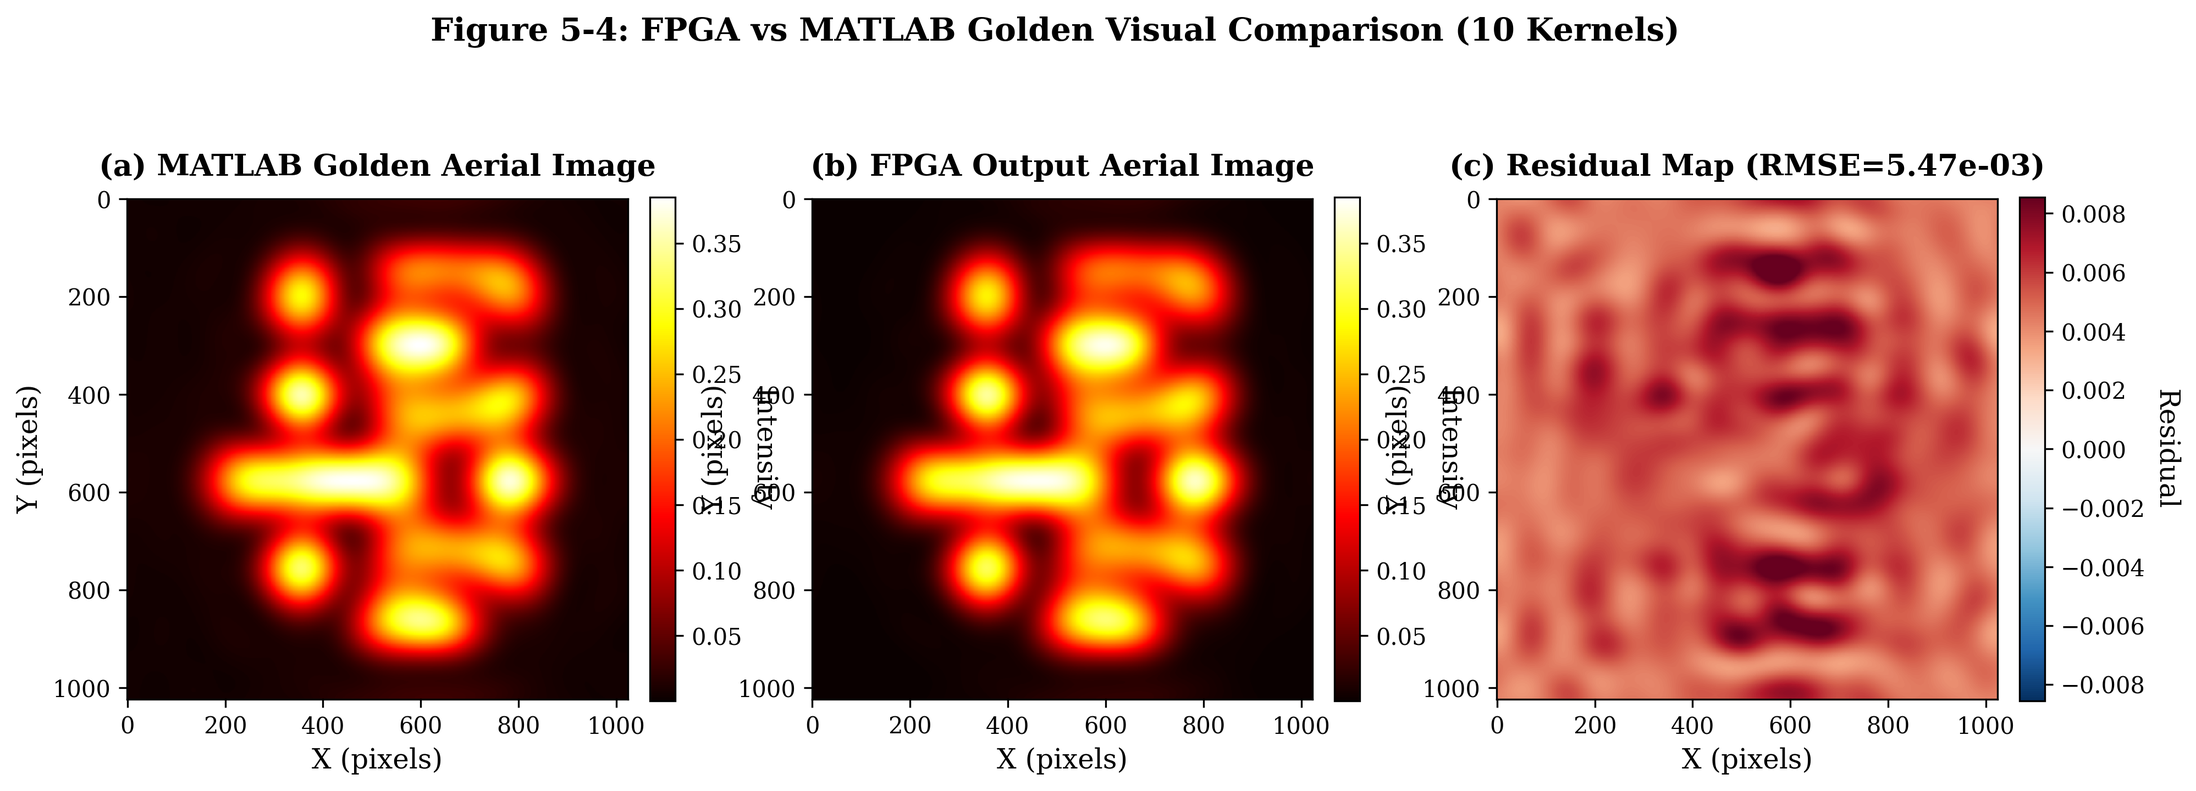
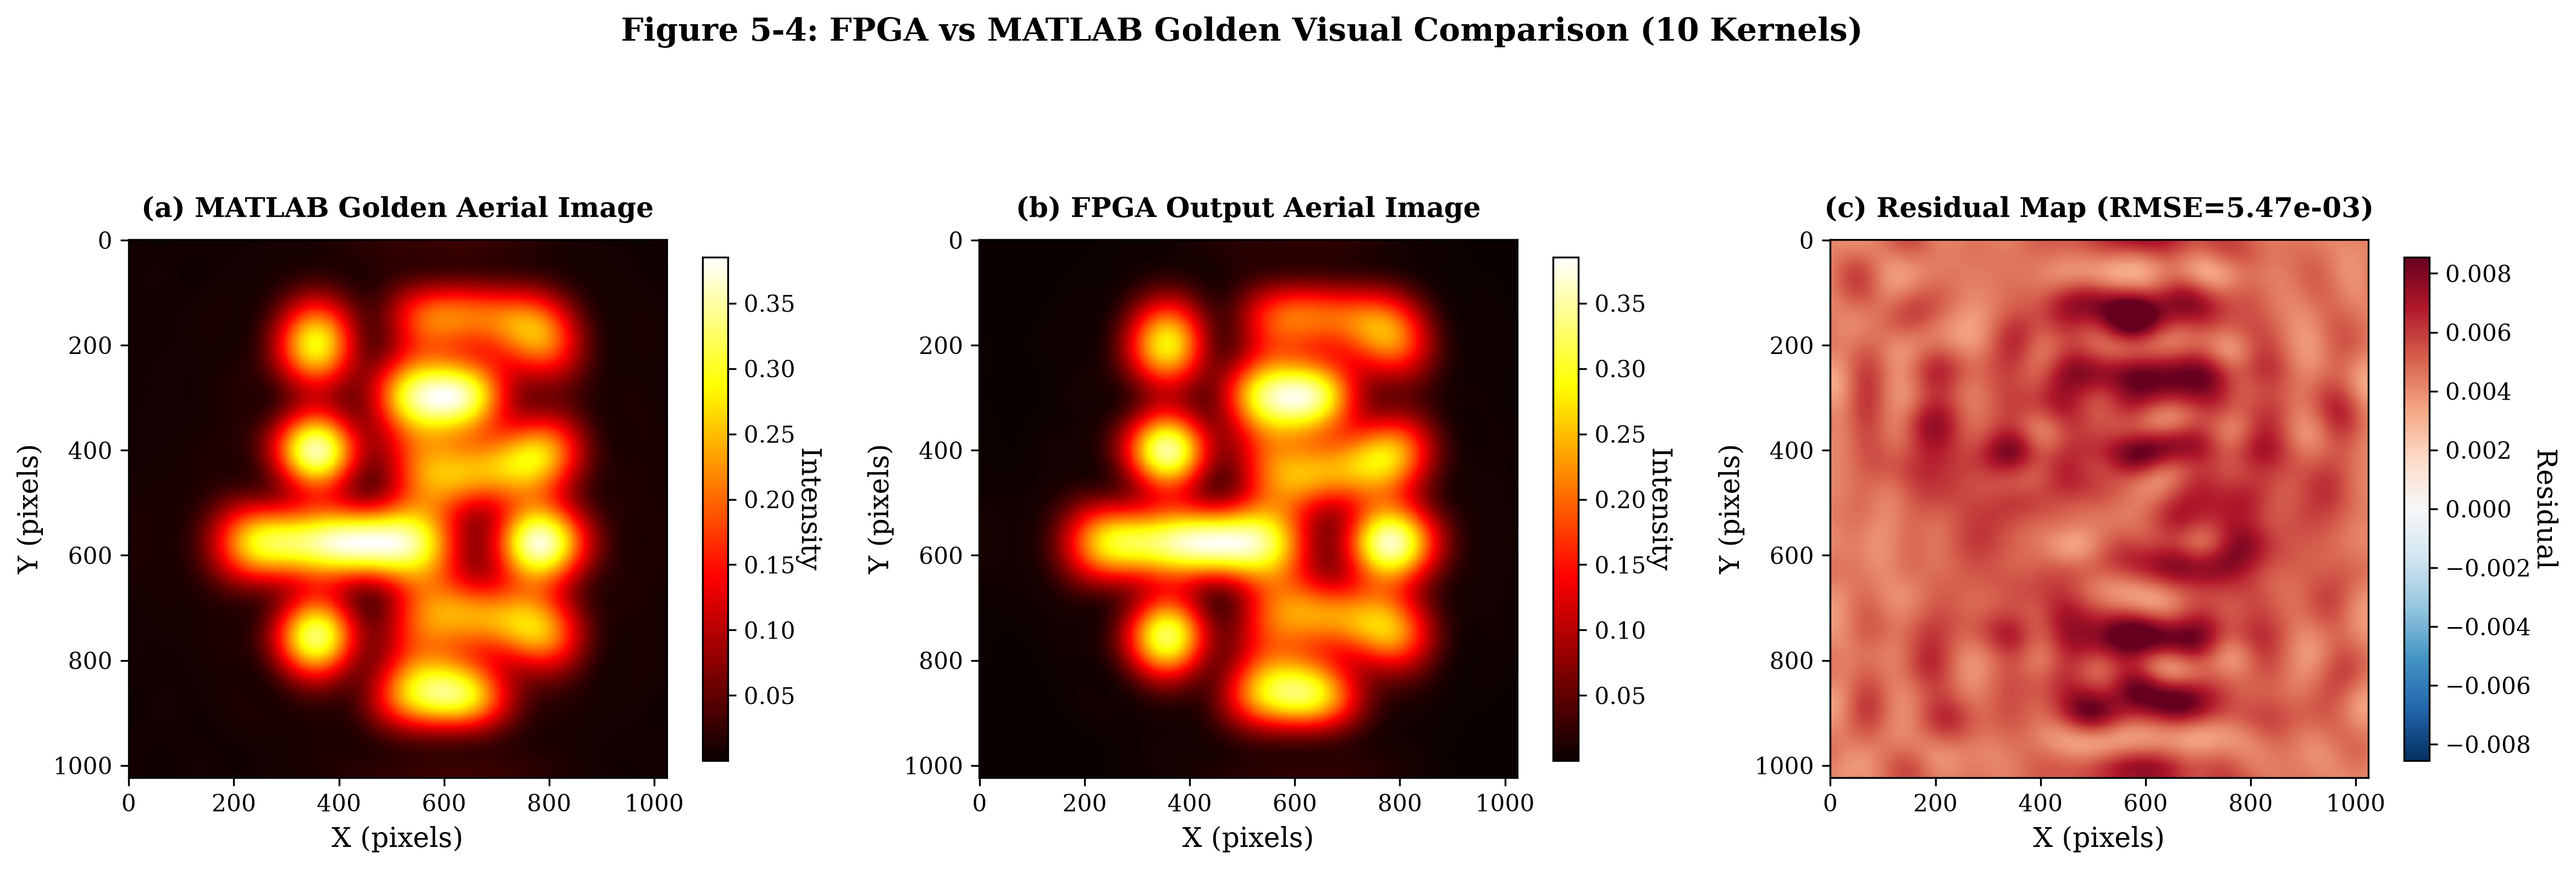
更新论文验证图及生成脚本

diff --git a/validation/generate_figure5_4.py b/validation/generate_figure5_4.py
@@ -7,8 +7,8 @@ Academic-style visualization for Chapter 5 of FPGA-Litho paper.
 Output: fig_visual_comparison_10kernels.png (1024×1024 resolution)
 
 Data sources:
-  - Golden: output/verification/aerial_image_tcc_direct.bin (1024×1024)
-  - FPGA: output/verification/tmpImgp_full_128.bin (128×128 → FI → 1024×1024)
+    - Golden: experiments/data/E1_multi_mask/golden/T1/aerial_image_tcc_direct.bin
+    - FPGA: experiments/runs/E1_multi_mask/T1/fpga_tmpimgp_full_128.bin
 
 Author: FPGA-Litho Project
 Date: 2026-05-07
@@ -131,7 +131,9 @@ def main():
     print("\n[Step 1] Loading data...")
     
     # Load Golden aerial image (1024×1024)
-    golden_path = PROJECT_ROOT / "output/verification/aerial_image_tcc_direct.bin"
+    golden_path = PROJECT_ROOT / (
+        "experiments/data/E1_multi_mask/golden/T1/aerial_image_tcc_direct.bin"
+    )
     if not golden_path.exists():
         print(f"❌ ERROR: {golden_path} not found!")
         return
@@ -140,7 +142,9 @@ def main():
     print(f"✓ Loaded Golden aerial: {golden_aerial.shape}")
     
     # Load FPGA tmpImgp (128×128)
-    fpga_tmpimgp_path = PROJECT_ROOT / "output/verification/tmpImgp_full_128.bin"
+    fpga_tmpimgp_path = PROJECT_ROOT / (
+        "experiments/runs/E1_multi_mask/T1/fpga_tmpimgp_full_128.bin"
+    )
     if not fpga_tmpimgp_path.exists():
         print(f"❌ ERROR: {fpga_tmpimgp_path} not found!")
         return
@@ -172,9 +176,9 @@ def main():
     # ========================================================================
     print("\n[Step 4] Creating academic-style visualization...")
     
-    # Create figure with 1×3 layout
-    fig = plt.figure(figsize=(15, 5))
-    gs = GridSpec(1, 3, figure=fig, wspace=0.25)
+    # Create a wider 1×3 layout so axis labels and colorbars remain separate.
+    fig = plt.figure(figsize=(18, 5.8))
+    gs = GridSpec(1, 3, figure=fig, wspace=0.42)
     
     # Common color scale for aerial images
     vmin_aerial = min(golden_aerial.min(), fpga_aerial.min())
@@ -184,21 +188,21 @@ def main():
     ax1 = fig.add_subplot(gs[0, 0])
     im1 = ax1.imshow(golden_aerial, cmap='hot', interpolation='nearest',
                      vmin=vmin_aerial, vmax=vmax_aerial)
-    ax1.set_title('(a) MATLAB Golden Aerial Image', fontweight='bold', pad=10)
+    ax1.set_title('(a) MATLAB Golden Aerial Image', fontsize=12, fontweight='bold', pad=10)
     ax1.set_xlabel('X (pixels)')
     ax1.set_ylabel('Y (pixels)')
-    cbar1 = plt.colorbar(im1, ax=ax1, fraction=0.046, pad=0.04)
-    cbar1.set_label('Intensity', rotation=270, labelpad=15)
+    cbar1 = plt.colorbar(im1, ax=ax1, fraction=0.042, pad=0.06)
+    cbar1.set_label('Intensity', rotation=270, labelpad=12)
     
     # Middle: FPGA Output
     ax2 = fig.add_subplot(gs[0, 1])
     im2 = ax2.imshow(fpga_aerial, cmap='hot', interpolation='nearest',
                      vmin=vmin_aerial, vmax=vmax_aerial)
-    ax2.set_title('(b) FPGA Output Aerial Image', fontweight='bold', pad=10)
+    ax2.set_title('(b) FPGA Output Aerial Image', fontsize=12, fontweight='bold', pad=10)
     ax2.set_xlabel('X (pixels)')
     ax2.set_ylabel('Y (pixels)')
-    cbar2 = plt.colorbar(im2, ax=ax2, fraction=0.046, pad=0.04)
-    cbar2.set_label('Intensity', rotation=270, labelpad=15)
+    cbar2 = plt.colorbar(im2, ax=ax2, fraction=0.042, pad=0.06)
+    cbar2.set_label('Intensity', rotation=270, labelpad=12)
     
     # Right: Residual Map
     residual = golden_aerial - fpga_aerial
@@ -209,22 +213,22 @@ def main():
     im3 = ax3.imshow(residual, cmap='RdBu_r', interpolation='nearest',
                      vmin=-vmax_residual, vmax=vmax_residual)
     ax3.set_title(f'(c) Residual Map (RMSE={metrics["rmse"]:.2e})',
-                  fontweight='bold', pad=10)
+                  fontsize=12, fontweight='bold', pad=10)
     ax3.set_xlabel('X (pixels)')
     ax3.set_ylabel('Y (pixels)')
-    cbar3 = plt.colorbar(im3, ax=ax3, fraction=0.046, pad=0.04)
-    cbar3.set_label('Residual', rotation=270, labelpad=15)
+    cbar3 = plt.colorbar(im3, ax=ax3, fraction=0.042, pad=0.06)
+    cbar3.set_label('Residual', rotation=270, labelpad=12)
     
     # Add overall title
     fig.suptitle('Figure 5-4: FPGA vs MATLAB Golden Visual Comparison (10 Kernels)',
-                 fontsize=14, fontweight='bold', y=1.02)
+                 fontsize=14, fontweight='bold', y=1.01)
     
     # ========================================================================
     # Step 5: Save figure
     # ========================================================================
     print("\n[Step 5] Saving figure...")
     
-    output_path = PROJECT_ROOT / "doc/论文/fig_visual_comparison_10kernels.png"
+    output_path = PROJECT_ROOT / "doc/image/论文/ch5_fig4_visual_comparison.png"
     plt.savefig(output_path, dpi=300, bbox_inches='tight', pad_inches=0.1)
     print(f"✓ Figure saved to: {output_path}")
     

diff --git a/experiments/generate_multi_mask_figure.py b/experiments/generate_multi_mask_figure.py
@@ -1,0 +1,52 @@
+#!/usr/bin/env python3
+"""Generate the paper figure for the ten-sample on-board validation."""
+
+from pathlib import Path
+
+import matplotlib.pyplot as plt
+import numpy as np
+
+
+ROOT = Path(__file__).resolve().parents[1]
+RUN_DIR = ROOT / "experiments/runs/E1_multi_mask"
+GOLDEN_DIR = ROOT / "experiments/data/E1_multi_mask/golden"
+OUTPUT_PATH = ROOT / "doc/image/论文/multi_mask_fpga_results.png"
+
+
+def main() -> None:
+    samples = [f"T{index}" for index in range(1, 11)]
+    masks = [plt.imread(GOLDEN_DIR / sample / "mask.png") for sample in samples]
+    aerial_images = [
+        np.fromfile(RUN_DIR / sample / "fpga_aerial_fi.bin", dtype=np.float32).reshape(1024, 1024)
+        for sample in samples
+    ]
+    color_min = min(float(image.min()) for image in aerial_images)
+    color_max = max(float(image.max()) for image in aerial_images)
+
+    figure, axes = plt.subplots(2, 10, figsize=(20, 4.25), constrained_layout=True)
+    for column, (sample, mask, aerial_image) in enumerate(
+        zip(samples, masks, aerial_images, strict=True)
+    ):
+        axes[0, column].imshow(mask, cmap="gray", vmin=0, vmax=1, interpolation="nearest")
+        axes[0, column].set_title(sample, fontsize=11, pad=3)
+        axes[1, column].imshow(
+            aerial_image,
+            cmap="jet",
+            vmin=color_min,
+            vmax=color_max,
+            interpolation="nearest",
+        )
+        axes[0, column].set_axis_off()
+        axes[1, column].set_axis_off()
+
+    figure.text(0.002, 0.74, "Mask", rotation=90, va="center", fontsize=11)
+    figure.text(0.002, 0.26, "Aerial image", rotation=90, va="center", fontsize=11)
+
+    OUTPUT_PATH.parent.mkdir(parents=True, exist_ok=True)
+    figure.savefig(OUTPUT_PATH, dpi=300, bbox_inches="tight", pad_inches=0.02)
+    plt.close(figure)
+    print(OUTPUT_PATH.relative_to(ROOT))
+
+
+if __name__ == "__main__":
+    main()
